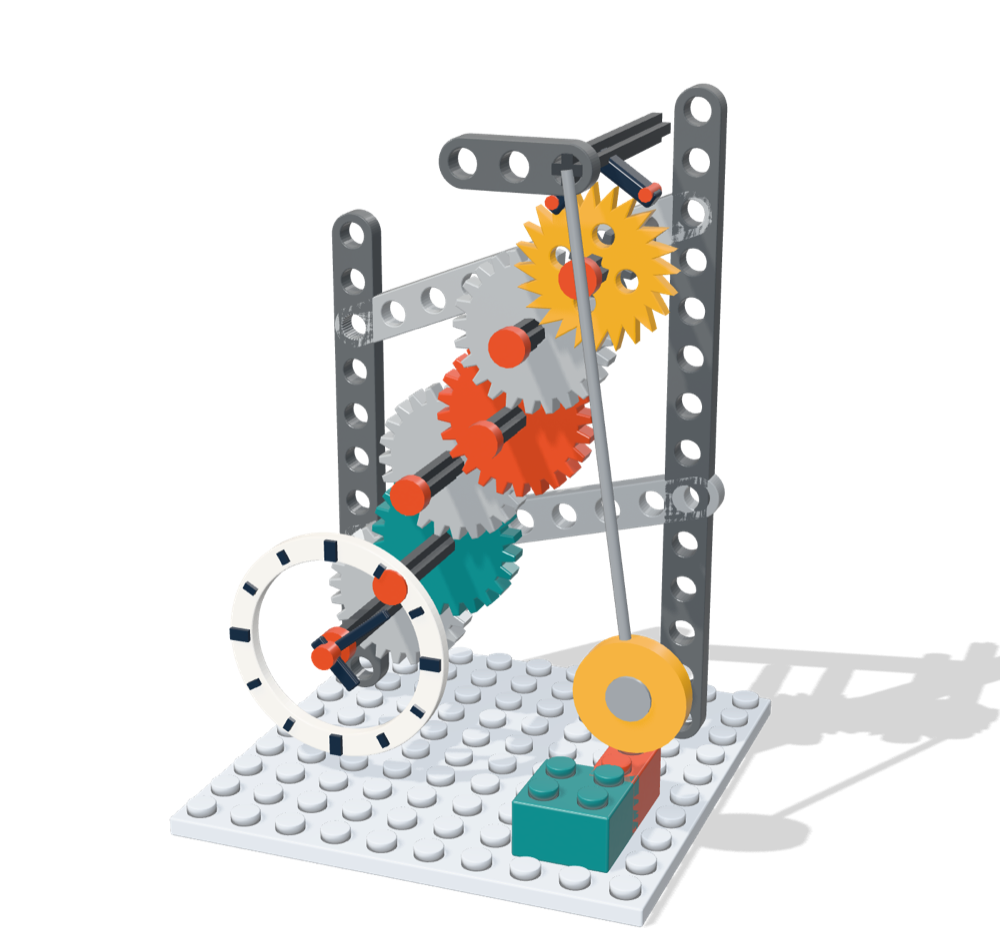
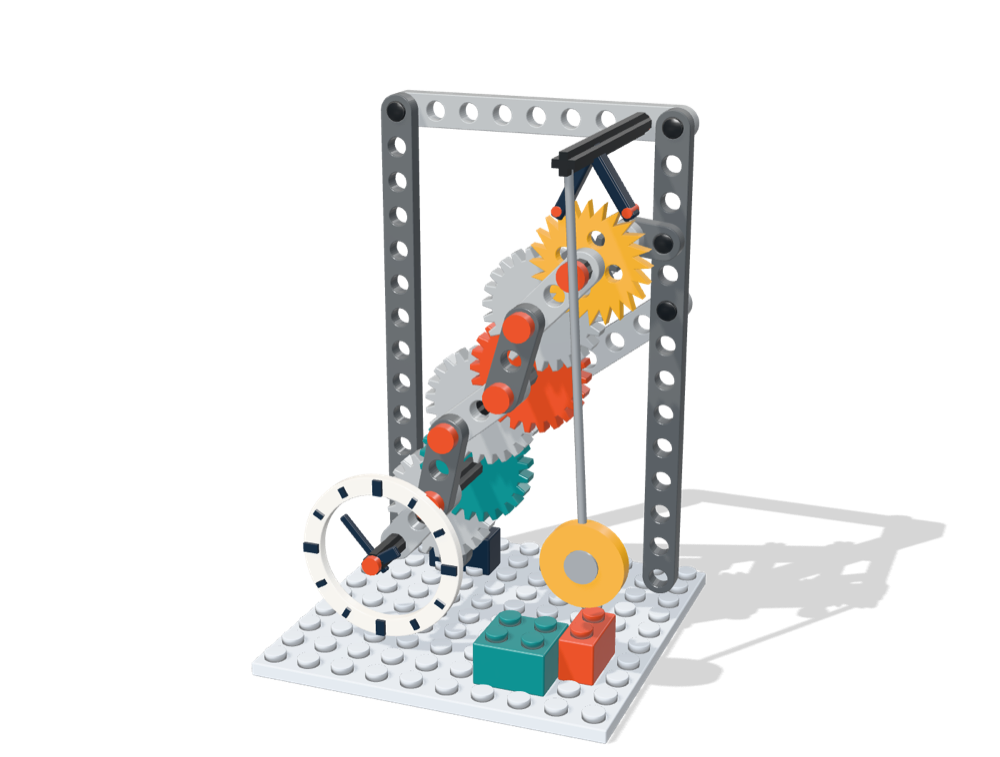
fix: 時計の軸をリフトアームの軸受けでつなぎ、枠と台にピンで留める
Claude-Session: https://claude.ai/code/session_01HVLCdS47XK5TENuN3Jkfoa

Changed region(s): [[0.155, 0.0911, 1.0, 1.0]]

diff --git a/lib/bricks/clock.ts b/lib/bricks/clock.ts
@@ -1,7 +1,7 @@
 import * as THREE from 'three'
 import { RoomEnvironment } from 'three/addons/environments/RoomEnvironment.js'
 import { PARTS, PITCH, PLATE, createBrickMaterial, footprint, partGeometry, setBrickColor, type PartId } from '@/lib/bricks/geometry'
-import { axleGeometry, cylinderZ, escapeWheelGeometry, gearGeometry, liftarmGeometry, meshPhase, roundedBox } from '@/lib/bricks/technic'
+import { axleGeometry, cylinderZ, escapeWheelGeometry, gearGeometry, liftarmGeometry, meshPhase, pinGeometry, roundedBox } from '@/lib/bricks/technic'
 
 /*
  * トップのヒーローの 3D シーン「6 段減速の時計」。10×10 のプレートの上に、テクニック部品で組んだ骨組みの時計。
@@ -108,7 +108,8 @@ export function mountClock(host: HTMLElement, opts: { theme: Theme; reducedMotio
   rig.add(studs)
 
   // ── 歯車の塔。軸 0（下）が針、軸 5（上）が脱進機 ──
-  const AX = [V(-20, TOP + 24)]
+  // 奥行き（z）の層: 歯車 -10.7〜11.7 / 軸受けのリフトアーム 前 14.4・18.2、後 -13.2・-17 / 柱 -21.8 / 梁 -25.6
+  const AX = [V(-16, TOP + 21.8)] // 下の軸は、台の上のテクニックブロックの穴（高さ 5.8）から 2 穴上
   for (const deg of [50, 78, 40, 74, 46]) {
     const prev = AX[AX.length - 1]
     AX.push(prev.clone().add(V(16 * Math.cos((deg * Math.PI) / 180), 16 * Math.sin((deg * Math.PI) / 180))))
@@ -120,7 +121,8 @@ export function mountClock(host: HTMLElement, opts: { theme: Theme; reducedMotio
     // 組 (k, k+1): 上の軸 k+1 の 8T が、下の軸 k の 24T を回す（面 p_k）
     big: k < 5 ? put(rig, gearGeometry(24), bigTones[k], p.x, p.y, plane(k)) : null,
     small: k > 0 ? put(rig, gearGeometry(8), 'dbg', p.x, p.y, plane(k - 1)) : null,
-    shaft: put(rig, axleGeometry(30), 'black', p.x, p.y, 2),
+    // 下の軸だけ、文字盤の針まで前に伸ばす
+    shaft: k === 0 ? put(rig, axleGeometry(50), 'black', p.x, p.y, 3) : put(rig, axleGeometry(44), 'black', p.x, p.y, 0.5),
     big0: 0,
     small0: 0,
   }))
@@ -130,51 +132,72 @@ export function mountClock(host: HTMLElement, opts: { theme: Theme; reducedMotio
     axles[k + 1].small0 = ps
     axles[k].big0 = pb
   }
-  for (const p of AX) {
-    put(rig, cylinderZ(3, 2.6), 'coral', p.x, p.y, 17.5)
-    put(rig, cylinderZ(2.3, 9), 'black', p.x, p.y, -16)
-  }
   const E = AX[5]
   const escape = put(rig, escapeWheelGeometry(24), 'mustard', E.x, E.y, plane(5))
 
-  // ── 背面の枠と、振り子を吊る梁 ──
-  beam(11, 'dbg', V(-30, TOP + 6, -15), Math.PI / 2)
-  beam(11, 'dbg', V(30, TOP + 6, -15), Math.PI / 2)
-  beam(4, 'dbg', V(30, TOP + 86, -15), Math.PI / 2)
-  // 斜めの梁は柱の 1 枚うしろ（厚み 3.4 + すき間）に重ねて、柱とぶつからないようにする
-  beamBetween(V(-30, TOP + 30, -18.8), V(30, TOP + 46, -18.8), 'lbg')
-  beamBetween(V(-30, TOP + 70, -18.8), V(30, TOP + 94, -18.8), 'lbg')
-  const Q = V(E.x, E.y + 17)
-  beam(3, 'dbg', V(Q.x - 16, Q.y, 22), 0)
-  put(rig, axleGeometry(44), 'black', Q.x, Q.y, 2)
+  // 軸受け: 隣り合う軸は 16mm（2 穴）なので、3 穴のリフトアームで前後から挟んでつなぐ。隣どうしは層を交互にずらす
+  for (let k = 0; k < 5; k++) {
+    const d = AX[k + 1].clone().sub(AX[k])
+    const phi = Math.atan2(d.y, d.x)
+    beam(3, k % 2 ? 'dbg' : 'lbg', V(AX[k].x, AX[k].y, k % 2 ? -17 : -13.2), phi)
+    beam(3, k % 2 ? 'dbg' : 'lbg', V(AX[k].x, AX[k].y, k % 2 ? 18.2 : 14.4), phi)
+  }
+  for (const p of AX.slice(1)) put(rig, cylinderZ(3, 2.6), 'coral', p.x, p.y, 21.6)
+
+  // 上の軸（脱進機）は、右の柱の穴へ 2 穴のリフトアームでつなぐ
+  {
+    const hole = V(E.x + 8, TOP + 6 + 10 * 8)
+    beamBetween(V(E.x, E.y, -17), V(hole.x, hole.y, -17), 'dbg')
+    put(rig, pinGeometry(), 'black', hole.x, hole.y, -19.4)
+  }
+
+  // 台への固定: 下の軸から 2 穴下へ縦のリフトアーム → 台の上の 1×2 テクニックブロックにピンで留める
+  const foot = V(AX[0].x, TOP + 5.8)
+  beam(3, 'dbg', V(AX[0].x, AX[0].y, -17), -Math.PI / 2)
+  brick('b1x2', 'navy', AX[0].x / PITCH - 1, -23 / PITCH - 0.5)
+  put(rig, cylinderZ(2.5, 0.3, 24), 'black', foot.x, foot.y, -18.85)
+  put(rig, pinGeometry(), 'black', foot.x, foot.y, -19)
+
+  // ── 枠: 柱 2 本（14 穴）と、斜めの梁・てっぺんの梁。交わるところはピンで留める ──
+  const xl = E.x - 56, xr = E.x + 8 // てっぺんの梁の穴に、振り子の軸（E の真上）が来るように
+  const yTop = TOP + 6 + 13 * 8
+  beam(14, 'dbg', V(xl, TOP + 6, -21.8), Math.PI / 2)
+  beam(14, 'dbg', V(xr, TOP + 6, -21.8), Math.PI / 2)
+  beamBetween(V(xl, TOP + 22, -25.6), V(xr, TOP + 70, -25.6), 'lbg') // 64 × 48 → 80（11 穴）
+  beam(9, 'lbg', V(xl, yTop, -25.6), 0)
+  for (const p of [V(xl, TOP + 22), V(xr, TOP + 70), V(xl, yTop), V(xr, yTop)]) put(rig, pinGeometry(), 'black', p.x, p.y, -23.7)
+  const Q = V(E.x, yTop)
+  put(rig, axleGeometry(56), 'black', Q.x, Q.y, 0)
+  put(rig, cylinderZ(3, 2.6), 'coral', Q.x, Q.y, -28.2)
 
   // ── アンクルと振り子（一緒に揺れる） ──
   const swing = new THREE.Group()
   swing.position.copy(Q)
   rig.add(swing)
+  const drop = Q.y - E.y
   for (const side of [-1, 1]) {
-    const tip = V(side * 12.6 * Math.sin(0.62), -17 + 12.6 * Math.cos(0.62))
+    const tip = V(side * 12.6 * Math.sin(0.62), -drop + 12.6 * Math.cos(0.62))
     const arm = put(swing, roundedBox(2.6, tip.length() + 2, 4, 0.6), 'navy', tip.x / 2, tip.y / 2, plane(5))
     arm.rotation.z = Math.atan2(tip.y, tip.x) - Math.PI / 2
     put(swing, cylinderZ(1.1, 5, 10), 'coral', tip.x, tip.y + 0.6, plane(5))
   }
-  const rodLen = 80
-  put(swing, new THREE.CylinderGeometry(0.9, 0.9, rodLen, 10), 'metal', 0, -rodLen / 2, 24)
-  put(swing, cylinderZ(9, 3.4, 40), 'mustard', 0, -rodLen, 24)
-  put(swing, cylinderZ(3.6, 4.6, 20), 'metal', 0, -rodLen, 24)
+  const rodLen = 82
+  put(swing, new THREE.CylinderGeometry(0.9, 0.9, rodLen, 10), 'metal', 0, -rodLen / 2, 25)
+  put(swing, cylinderZ(9, 3.4, 40), 'mustard', 0, -rodLen, 25)
+  put(swing, cylinderZ(3.6, 4.6, 20), 'metal', 0, -rodLen, 25)
 
-  // ── 文字盤（骨組みの輪と 12 の目盛り）と針 ──
+  // ── 文字盤（骨組みの輪と 12 の目盛り）と針。前の軸受けより手前 ──
   const P0 = AX[0]
   const ring = new THREE.Shape()
-  ring.absarc(0, 0, 19, 0, TAU, false)
+  ring.absarc(0, 0, 18, 0, TAU, false)
   const inner = new THREE.Path()
-  inner.absarc(0, 0, 15.5, 0, TAU, true)
+  inner.absarc(0, 0, 14.5, 0, TAU, true)
   ring.holes.push(inner)
-  put(rig, new THREE.ExtrudeGeometry(ring, { depth: 2, bevelEnabled: true, bevelThickness: 0.3, bevelSize: 0.3, bevelSegments: 2, curveSegments: 64 }), 'white', P0.x, P0.y, 16)
+  put(rig, new THREE.ExtrudeGeometry(ring, { depth: 2, bevelEnabled: true, bevelThickness: 0.3, bevelSize: 0.3, bevelSegments: 2, curveSegments: 64 }), 'white', P0.x, P0.y, 22.4)
   for (let i = 0; i < 12; i++) {
     const a = (i * TAU) / 12
     const big = i % 3 === 0
-    const tick = put(rig, new THREE.BoxGeometry(big ? 2 : 1.2, big ? 3.4 : 2.2, 1), 'navy', P0.x + 17.2 * Math.sin(a), P0.y + 17.2 * Math.cos(a), 18.6)
+    const tick = put(rig, new THREE.BoxGeometry(big ? 2 : 1.2, big ? 3.4 : 2.2, 1), 'navy', P0.x + 16.2 * Math.sin(a), P0.y + 16.2 * Math.cos(a), 25)
     tick.rotation.z = -a
   }
   const hand = (len: number, w: number, z: number) => {
@@ -184,15 +207,15 @@ export function mountClock(host: HTMLElement, opts: { theme: Theme; reducedMotio
     put(h, roundedBox(w, len, 1.2, 0.4), 'navy', 0, len / 2 - 3, 0)
     return h
   }
-  const minuteHand = hand(16, 1.8, 19.4)
-  const hourHand = hand(10, 2.6, 20.8)
-  put(rig, cylinderZ(2, 3, 16), 'coral', P0.x, P0.y, 21.4)
-  brick('b2x2', 'teal', 2, 2)
-  brick('b1x2', 'coral', 3, 0.5, 1)
+  const minuteHand = hand(15, 1.8, 25.8)
+  const hourHand = hand(9.5, 2.6, 27.2)
+  put(rig, cylinderZ(2, 3, 16), 'coral', P0.x, P0.y, 28)
+  brick('b2x2', 'teal', 1, 2)
+  brick('b1x2', 'coral', 3, 1, 1)
 
   // ── カメラ ──
   const camera = new THREE.PerspectiveCamera(26, 1, 10, 3000)
-  const target = V(2, 56, 0)
+  const target = V(2, 60, 0)
   const baseDir = V(100, 90, 260).normalize()
   const up = V(0, 1, 0)
   let dist = 370
@@ -204,7 +227,7 @@ export function mountClock(host: HTMLElement, opts: { theme: Theme; reducedMotio
     renderer.setSize(w, h, false)
     camera.aspect = w / h
     // 縦に長い時計が収まる距離。横幅が狭いときはさらに引く
-    dist = 76 / Math.tan(THREE.MathUtils.degToRad(camera.fov / 2)) / Math.min(1, camera.aspect / 0.9)
+    dist = 82 / Math.tan(THREE.MathUtils.degToRad(camera.fov / 2)) / Math.min(1, camera.aspect / 0.9)
     camera.updateProjectionMatrix()
     needsRender = true
   }

diff --git a/lib/bricks/technic.ts b/lib/bricks/technic.ts
@@ -105,3 +105,14 @@ export function cylinderZ(r: number, len: number, segments = 18) {
 export function roundedBox(w: number, h: number, d: number, radius: number) {
   return new RoundedBoxGeometry(w, h, d, 3, radius)
 }
+
+/** テクニックのピン（摩擦あり）。z 方向に長さ len、真ん中につば（2 つの部品の境目に来る） */
+export function pinGeometry(len = 8.6) {
+  const h = len / 2
+  const profile: [number, number][] = [
+    [0, -h], [2.0, -h], [2.35, -h + 0.5], [2.35, -0.55], [3.05, -0.55], [3.05, 0.55], [2.35, 0.55], [2.35, h - 0.5], [2.0, h], [0, h],
+  ]
+  const g = new THREE.LatheGeometry(profile.map(([r, y]) => new THREE.Vector2(r, y)), 20)
+  g.rotateX(Math.PI / 2)
+  return g
+}
